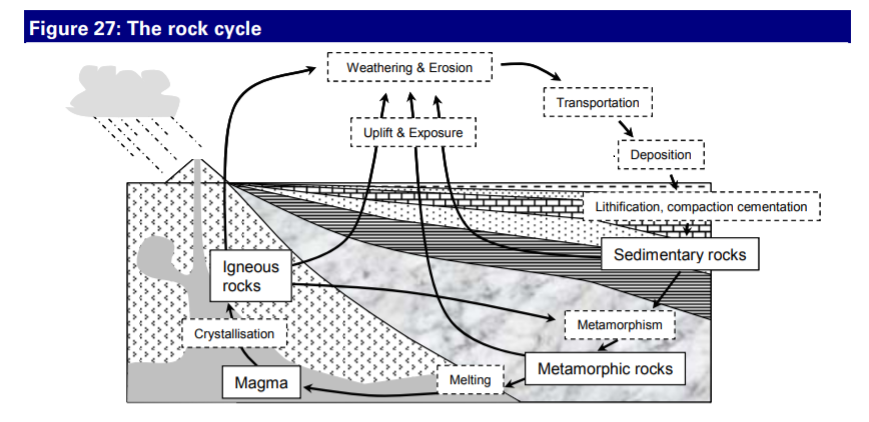
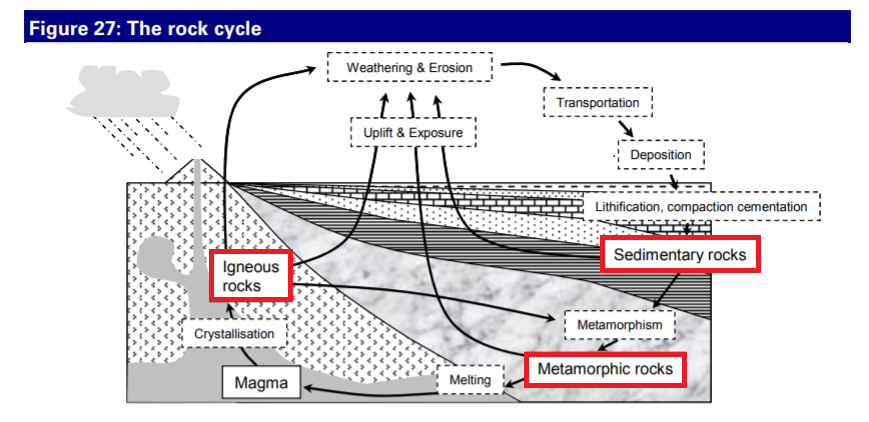
Done methodology except architecture of inception

Changed region(s): [[0.6835, 0.5545, 0.901, 0.6469], [0.5903, 0.8318, 0.8078, 0.9242], [0.2175, 0.5853, 0.3418, 0.7393]]

diff --git a/chapters/02-background.tex b/chapters/02-background.tex
@@ -5,7 +5,7 @@ In this chapter we provide a brief discussion of the essential background needed
 
 
 \section{Geology}
-The search for hydrocarbons - oil and gas - is concentrated within the upper crust of the Earth which spreads from 0 to 40km. It's made of 12 tectonic plates that drifts away from each other. As they move, the plates interact at their extremities: creating and destroying material. Through this process, minerals go through different phases (liquid, solid) and are combined with a range of other minerals creating different rock types: it is the rock cycle. 
+The search for hydrocarbons - oil and gas - is concentrated within the upper crust of the Earth which spreads from 0 to 40km. It's made of 12 tectonic plates that drifts away from each other. As they move, the plates interact at their extremities: creating and destroying material. During this process, minerals go through different phases (liquid, solid) and are combined with a range of other minerals creating different rock types: it is the rock cycle. 
 	\begin{figure}[!htp]
     \centering
         \includegraphics[width=0.9\textwidth]{./figures/02-rock-cycle}
@@ -15,9 +15,9 @@ The search for hydrocarbons - oil and gas - is concentrated within the upper cru
 Those cycles form hydrocarbon source rocks, reservoir and seals. The movement of the plates also introduces non-linearity in the rocks where oil or gas can be trapped. Those structural traps are where we usually drill from. As we see in red on Figure~\ref{fig:rock-cycle}, there are three types of rocks: igneous, sedimentary and metamorphic.  Igneous rocks are formed through the cooling of minerals from magma. Metamorphic rocks are generated through the burial process of rocks: as rocks are buried, they are exposed to higher temperature and pressure transforming organic matter into oil and gas. Sedimentary rocks accounts for almost all oil and gas reserve. They are deposited in layers, reflecting the history of the depositional basin.
 
 
-The hydrocarbon formation process has several steps: first the maturation where organic matter is buried and exposed to such temperature and pressure conditions that it converts into oil or gas. The second part of the process is called migration, it is when the hydrocarbon moves from the source rocks to the reservoir. At high temperature the oil has a lower density allowing it to moves upwards through fractures in the source rocks and the reservoir rocks. At even higher temperature, the oil is dissolved into gas phase. Then when it moves upwards, the pressure decreases causing it to condensate back to liquid form. The hydrocarbon is then trapped in the reservoir rock. The trap in which it lays should ideally be impermeable (no fluid can flow through it) but an escape rate smaller than the production rate is sufficient for the trap to be commercially viable. 
+The hydrocarbon formation process has several steps: first the maturation where organic matter is buried and exposed to such temperature and pressure conditions that it converts into oil or gas. The second part of the process is called migration, it is when the hydrocarbon moves from the source rocks to the reservoir. At high temperature the oil has a lower density allowing it to move upwards through fractures in the source rocks and the reservoir rocks. At even higher temperature, the oil is dissolved into gas phase. Then when it moves upwards, the pressure decreases causing it to condensate back to liquid form. The hydrocarbon is then trapped in the reservoir rock. The trap in which it lays should ideally be impermeable (no fluid can flow through it) but an escape rate smaller than the production rate is sufficient for the trap to be commercially viable. 
 
-Only a portion of this volume of hydrocarbon can be extracted. The amount depends on several factors such as porosity, permeability, lithology, components...  The following sections present some of those properties. 
+Only a portion of this volume of hydrocarbon can be extracted. The amount depends on several factors such as porosity, permeability, lithology...  The following sections present some of those properties. 
 \subsection{Dunham Classification}
 The Duhnam classification was developed to classify carbonate sedimentary rocks. The class names are based on the depositional texture. This means that the classification is most significant for interpreting the depositional environment of the rocks. The Dunham classification, see Figure~\ref{fig:dunham}, is based on three criteria: The supporting fabric of the original sediment: mud, grain ?, The presence or absence of mud. Were the original components bound during deposition ?
 Those criteria lead to 4 classes :
@@ -32,8 +32,7 @@ Those criteria lead to 4 classes :
         \caption{Dunham Classifiaction of carbonate rocks}\label{fig:dunham}
     \end{figure}
 \end{itemize}
-
-Maybe add one or two sentences about why duhnam classification is interesting ?
+This is a relevant property for reservoir rocks because it indicates what kindo of rock it is: if it is going to be soft or hard to drill through...
 
 \subsection{Porosity and permeability}
 The porosity of a rock is a measure of its ability to hold fluids. This is a relevant property for reservoir rocks since it will tell how much oil they can contain. Mathematically,  we calculate the porosity by dividing the volume of open spaces in the rock by the total volume of the rock. Porosity is expressed by a number between 0 and 1. If the porosity is 0, then the rock can't hold any fluid. 
@@ -45,24 +44,23 @@ There are two kinds of porosity:
 \end{itemize}
 
 The permeability of a rock describes how easily liquid can flow through it. It is an important property for the source rocks since hydrocarbon flows through them during the migration process. But it is also important for reservoir rock since if there is low permeability, the oil contained in the pores won't be able to flow out of the rock. 
-Rocks that are considered good reservoirs combine good porosity and permeability. A rock with high porosity and high permeability will make a good reservoir rock since it can hold and deliver large amounts of oil. 
+Rocks that are considered good reservoirs combine good porosity and permeability. Typically, rock with high porosity and high permeability will make a good reservoir rock since it can hold and deliver large amounts of oil. 
 
-I voluntarily chose to ignore DR and Components since I am not allowed to talk about which components are present in my rocks. But maybe I'll be allowed to talk about description of which can be found and what they could indicate without telling how much of each I find every time. 
 
-\subsection{Coring}
-The first step to determine where to drill is the seismic study. A big 'bang' sends wave sounds that propagates into the earth and are partially reflected by the different rock layers. Those wave sounds are gathered registered and stored by geophones placed on the surface. This operation is repeated several times in different places and the data gathered then creates a seismic images that can be interpreted by geologists to identify and target zones with high chances of finding oil. 
+\subsection{Coring}\label{sec:coring}
+The first step to determine where to drill is the seismic study. A big 'bang' sends wave sounds that propagates into the earth crust and are partially reflected by the different rock layers. Those wave sounds are gathered registered and stored by geophones placed on the surface. This operation is repeated several times in different places and the data gathered creates a seismic images that can be interpreted by geologists to identify and target zones with high chances of finding oil. 
 
-Then, a whole is drilled and a sensor is lowered to the bottom of the well and measures are taken. Several instruments are used such as gamma ray that gives information about the level of clay, resistivity which indicates potential hydrocarbon sources or sonic which indicates porosity of the rock. But the best way to identify what kind of rocks are drilled through is coring. This operation consists in drilling very slowly with a special drilling bit and extract a piece of the rock which looks like a tube. Then a resine is infiltrated through the core to make sure it holds and all the fragments stick together when we cut through it. 
+Then, a whole is drilled and a sensor is lowered to the bottom of the well and measures are taken. Several instruments are used such as gamma ray that gives information about the level of clay, resistivity which indicates potential hydrocarbon sources or sonic which indicates porosity of the rock. But the best way to identify what kind of rocks are drilled through is coring. This operation consists in drilling very slowly with a special drilling bit and extract a piece of the rock which looks like a tube. Then a resine is infiltrated through the core to make sure it holds and all the fragments stick together when we cut through it. Then we cut very thin sections out of the core, take high resolution pictures, and geologist label them. The result is a precise description of the rock the exploration is drilling through.  
 This technique is costly since it takes days out of the normal drilling process and it can be very slow. It is also not 100\% reliable: there can be gaps in the core, it can collapse or sometimes not manage to extract the core at all. 
-If the operation is successful, high resolution pictures of the core are taken. Then thin sections are cut from it and labelled by geologists. The outcome is a precise description of the rock the exploration is drilling through.  
+
 
 \section{Convolutional Neural Networks}
-Add one sentence about the fact that CNNs are what is almost unanimously claimed tobe the best way of doing computer vision and image classification.
-A Convolutional Neural Network (CNN) is a network that makes the explicit assumption that its inputs are images. Thus, one can encode some properties into the architecture of the network. One of them is that nearby pixels are more correlated than distant pixels. This allows the network to extract local features dependant only on small sub-regions of the image, resulting in a vastly reduced number of parameters. 
+In the last couple of years, most of the best peroforming networks in image classification have been CNNs. 
+A Convolutional Neural Network (CNN) is a network that makes the explicit assumption that its inputs are ordered. A rule of thumb is, if shuffling the input does not influence the results of the network, we should not use CNNs on this data. For images, the ordered aspect of the data implies that one can encode some properties into the architecture of the network. One of them is that nearby pixels are more correlated than distant pixels. This allows the network to extract local features dependant only on small sub-regions of the image, resulting in a vastly reduced number of parameters. 
 A CNN consists of three basic layers.  In the first layer, several linear operations are performed in parallel producing a set of linear activation: it's the convolution layer. The second layer is the activation layer: the activation function is applied to the linear activation. This will produce a feature map representing the local features that were detected in the previous stage. The third layer is the pooling layer, this reduces the number of parameters to increase efficiency and produces a feature map. Finally, one can add a last layer: the fully connected layer, it will use the extracted features to classify the images into classes. 
 
 \subsection{Convolution Layer}
-This one might be a bit too complex...
+
 The convolution is performed on the input data by a filter or kernel to produce a feature map. We proceed to the convolution by sliding the filter over the input. The first convolution will be between the first filter and the top right part of the image: a matrix multiplication is performed and the sum is written on the feature map. Each filter is trained to identify a certain feature and it will detect it everywhere on the image.  Numerous convolutions are performed using different kernels and producing several feature map.
 	
 	Now an example of how the feature maps are calculated. On Figure~\ref{fig:conv_layer}, the blue 3x3 matrix is the filter and the matrix on the left is the input. To get the 4 that is highlighted with green, we do a matrix multiplication followed by a sum so : 1x1 + 0x0 + 0x1 + 1x0 + 1x1 + 0x0 +1x1 + 1x0 + 1x1 = 4. 

diff --git a/chapters/04-results.tex b/chapters/04-results.tex
@@ -3,26 +3,26 @@
 In this chapter, we present the results of different networks. Every section from \ref{sec:res} to \ref{sec:gogl} presents the results for each network. every section is divided in three subsection: one in which we discuss the results of different initialization one where we discuss the results of different optimizers and one in which the results for different classes are presented. 
 \section{Resnet}\label{sec:res}
 \subsection{Initialization}
-For every class, we tested our network with either random initialization or with using pretrained weights. In Table \ref{tab:resinit}, we can see the best accuracy on validation and test set, the number of epochs for training for each class.  
+For every class, we tested our network with either random initialization or with using pretrained weights. In Table \ref{tab:resinit}, we can see the best accuracy on validation set and the number of epochs for training for each class.  
 
 \begin{table}
 \caption{\label{tab:resinit} The results of training ResNet18 using random initialization or pretrained weights with Adamax as optimizer}
 \centering
 \begin{tabular}[b]{| l | l | l | l | l |}
 \hline
-    Initialization & Class & Validation accuracy & Test accuracy & Epochs\ \\ \hline
-    \multirow{}{}{Pretrained Weights} & Dunham &  62\% & 34\% & 50 \\ 
-    & Porosity & 75\% & 45\% &  50 \\
-    &DRT & 75\% & 45\% &  50 \\
-    &Components & 75\% & 45\% &  50 \\ \hline
-     \multirow{}{}{Random} & Dunham &  62\% & 34\% & 50 \\
-    & Porosity & 75\% & 45\% &  50 \\
-    &DRT & 75\% & 45\% &  50 \\
-    &Components & 75\% & 45\% &  50 \\ \hline
+    Initialization & Class & Validation accuracy (F1-score) & Epochs\ \\ \hline
+    \multirow{}{}{Pretrained Weights} & Dunham &  62\%  & 50 \\ 
+    & Porosity & 74\%  &  60 \\
+    &DRT & 55\% &  50 \\
+    &Components & 70\% &  50 \\ \hline
+     \multirow{}{}{Random} & Dunham &  45\%  & 50 \\
+    & Porosity & 64\% &  50 \\
+    &DRT & 28\% & 50 \\
+    &Components & 34\% &  50 \\ \hline
     
 \end{tabular} 
 \end{table}
-On Figure\ref{fig:}, we plotted the accuracy, F1 score, and average training and validation loss for each class. 
+On Figure\ref{fig:plotsres}, we plotted the accuracy, F1 score, and average training and validation loss for each class. 
 
 
 
@@ -47,22 +47,187 @@ On Figure\ref{fig:}, we plotted the accuracy, F1 score, and average training and
 \end{subfigure}%
 \begin{subfigure}{.5\textwidth}
   \centering
-  \includegraphics[width=.8\linewidth]{figures/04-Init_dunham_acc.PNG}
+  \includegraphics[width=.8\linewidth]{figures/04-Init_components_acc.PNG}
   \caption{Resnet18 trained on the Components class.}
   \label{fig:resinit_compo}
 \end{subfigure}
-\caption{The lines in green and red are for pretrained weights and yellow and blue for random initialization. The top plot is the validation accuracy and the bottom plot is training  and validation loss.}
-\label{fig:fig}
+\caption{The lines in green and red are for pretrained weights and yellow and blue for random initialization. The top plot is the validation accuracy for plots (a) (b) and (c) and the F1-score for plot (d), and the bottom plot is training  and validation loss.}
+\label{fig:plotsres}
+\end{figure}
+\subsection{Classification}
+On Table\ref{tab:resbest}, we summarize the best validation and test accuracy or F-1 score for every class. Then we present the confusion matrix for the best performing model and the test data set for the single label classification on Figure\ref{fig:rescm}. For the Components class, we show the statistics for every class. 
+
+\begin{table}
+\caption{\label{tab:resbest} The results of the best version of the Resnet 18 on the classification task. The validation and test accuracy are used as first metrics on the single label classification while F1-scores are used for multi-label classification.}
+\centering
+\begin{tabular}[b]{| l | l | l | l | l |}
+\hline
+    Initialization & Class & Validation accuracy (F1-score) & Test accuracy (F1-score) \ \\ \hline
+    Pretrained Weights & Dunham &  62\%  & 38\% \\ \hline
+    Pretrained Weights & Porosity & 74\%  &  58\% \\ \hline
+    Pretrained Weights &DRT & 56\% &  25\% \\ \hline
+    Pretrained Weights &Components & 69\% &  45\% \\ \hline
+\end{tabular} 
+\end{table}
+
+\begin{figure}
+\begin{subfigure}{.5\textwidth}
+  \centering
+  \includegraphics[width=.8\linewidth]{figures/04-baby_best.PNG}
+  \caption{Best for Porosity}
+  \label{fig:rescm_poro}
+\end{subfigure}%
+\begin{subfigure}{.5\textwidth}
+  \centering
+  \includegraphics[width=.8\linewidth]{figures/04-baby_pred.PNG}
+  \caption{Predicted for Porosity}
+  \label{fig:rescmpred_poro}
+\end{subfigure}
+\begin{subfigure}{.5\textwidth}
+  \centering
+  \includegraphics[width=.8\linewidth]{figures/04-dunham_best.PNG}
+  \caption{Best for Dunham}
+  \label{fig:rescm_dunham}
+\end{subfigure}%
+\begin{subfigure}{.5\textwidth}
+  \centering
+  \includegraphics[width=.8\linewidth]{figures/04-dunham_pred.PNG}
+  \caption{Predicted for Dunham}
+  \label{fig:rescmpred_dunham}
+\end{subfigure}
+\begin{subfigure}{.5\textwidth}
+  \centering
+  \includegraphics[width=.8\linewidth]{figures/04-DRT_best.PNG}
+  \caption{Best for DRT}
+  \label{fig:rescm_drt}
+\end{subfigure}%
+\begin{subfigure}{.5\textwidth}
+  \centering
+  \includegraphics[width=.8\linewidth]{figures/04-drt_predicted.PNG}
+  \caption{Predicted for DRT}
+  \label{fig:rescmpred_drt}
+\end{subfigure}
+\caption{On the left is the confusion matrix of the best performing ResNet18 and on the right is the confusion matrix on the test set.}
+\label{fig:rescms}
 \end{figure}
 
-\subsection{Optimizer}
-\subsection{Classification}
-On Table\ref{tab:resbest}, we summarize the best accuracies for every class. Then on Figure
+
+%%%%%%%%%%%%%%%%%%%%%%%%%%%%%%%%%%%%%%%%%%%%%%%%%%%   ALEX   %%%%%%%%%%%%%%%%%%%%%%%%%%%%%%%%%%%%%%%%%%%%%%%%%%%%%
+
 \section{AlexNet}\label{sec:aleX}
 \subsection{Initialization}
-\subsection{Optimizer}
+For every class, we tested our network with either random initialization or with using pretrained weights. In Table \ref{tab:alexinit}, we can see the best accuracy on validation and test set, the number of epochs for training for each class.  
+On Figure\ref{fig:plotsalex}, we plotted the accuracy, F1 score, and average training and validation loss for each class. 
+\begin{table}
+\caption{\label{tab:alexinit} The results of training AlexNet using random initialization or pretrained weights with Adamax as optimizer}
+\centering
+\begin{tabular}[b]{| l | l | l | l | l |}
+\hline
+    Initialization & Class & Validation accuracy  & Epochs\ \\ \hline
+    \multirow{}{}{Pretrained Weights} & Dunham &  82\%  & 50 \\ %%cf Confusion Matrix 
+    & Porosity & 89\% &  50 \\
+    &DRT & 66\% &  50 \\
+    &Components & 75\% &  50 \\ \hline
+     \multirow{}{}{Random} & Dunham &  62\% & 50 \\
+    & Porosity & 65\% &  50 \\
+    &DRT & 61\% &  50 \\
+    &Components & 75\% & 50 \\ \hline
+\end{tabular} 
+\end{table}
+
+\begin{figure}
+\begin{subfigure}{.5\textwidth}
+  \centering
+  \includegraphics[width=.8\linewidth]{figures/04-Init_al_poro_acc.PNG}
+  \caption{AlexNet trained on the Porosity class.}
+  \label{fig:alexinit_poro}
+\end{subfigure}%
+\begin{subfigure}{.5\textwidth}
+  \centering
+  \includegraphics[width=.8\linewidth]{figures/04-Init_al_dunham_acc.PNG}
+  \caption{AlexNet trained on the Dunham class.}
+  \label{fig:alexinit_dunham}
+\end{subfigure}
+\begin{subfigure}{.5\textwidth}
+  \centering
+  \includegraphics[width=.8\linewidth]{figures/04-Init_al_drt_acc.PNG}
+  \caption{AlexNet trained on the DRT class.}
+  \label{fig:alexinit_drt}
+\end{subfigure}%
+\begin{subfigure}{.5\textwidth}
+  \centering
+  \includegraphics[width=.8\linewidth]{figures/04-Init_al_components_acc.PNG}
+  \caption{AlexNet trained on the Components class.}
+  \label{fig:alexinit_compo}
+\end{subfigure}
+\caption{The lines in green and red are for pretrained weights and yellow and blue for random initialization. The top plot is the validation accuracy for plots (a) (b) and (c) and the F1-score for plot (d), and the bottom plot is training  and validation loss.}
+\label{fig:plotsalex}
+\end{figure}
+
 \subsection{Classification}
+On Table\ref{tab:ralexbest}, we summarize the best validation and test accuracy or F-1 score for every class. Then we present the confusion matrix for the best performing model and the test data set for the single label classification on Figure\ref{fig:alexcm}. For the Components class, we show the statistics for every class. 
+
+\begin{table}
+\caption{\label{tab:alexbest} The results of the best version of the AlexNet on the classification task. The validation and test accuracy are used as first metrics on the single label classification while F1-scores are used for multi-label classification.}
+\centering
+\begin{tabular}[b]{| l | l | l | l | l |}
+\hline
+    Initialization & Class & Validation accuracy (F1-score) & Test accuracy (F1-score) \ \\ \hline
+    Pretrained Weights & Dunham &  82\%  & 39\% \\ \hline
+    Pretrained Weights & Porosity & 89\%  &  69\% \\ \hline
+    Pretrained Weights &DRT & 100\% &  100\% \\ \hline
+    Pretrained Weights &Components & 100\% &  100\% \\ \hline
+\end{tabular} 
+\end{table}
+
+\begin{figure}
+\begin{subfigure}{.5\textwidth}
+  \centering
+  \includegraphics[width=.8\linewidth]{figures/04-al_baby_best.PNG}
+  \caption{Best for Porosity}
+  \label{fig:rescm_poro}
+\end{subfigure}%
+\begin{subfigure}{.5\textwidth}
+  \centering
+  \includegraphics[width=.8\linewidth]{figures/04-al_baby_pred.PNG}
+  \caption{Predicted for Porosity}
+  \label{fig:rescmpred_poro}
+\end{subfigure}
+\begin{subfigure}{.5\textwidth}
+  \centering
+  \includegraphics[width=.8\linewidth]{figures/04-al_dunham_best.PNG}
+  \caption{Best for Dunham}
+  \label{fig:rescm_dunham}
+\end{subfigure}%
+\begin{subfigure}{.5\textwidth}
+  \centering
+  \includegraphics[width=.8\linewidth]{figures/04-al_dunham_predicted.PNG}
+  \caption{Predicted for Dunham}
+  \label{fig:rescmpred_dunham}
+\end{subfigure}
+\begin{subfigure}{.5\textwidth}
+  \centering
+  \includegraphics[width=.8\linewidth]{figures/04-al_DRT_best.PNG}
+  \caption{Best for DRT}
+  \label{fig:rescm_drt}
+\end{subfigure}%
+\begin{subfigure}{.5\textwidth}
+  \centering
+  \includegraphics[width=.8\linewidth]{figures/04-al_drt_predicted.PNG}
+  \caption{Predicted for DRT}
+  \label{fig:rescmpred_drt}
+\end{subfigure}
+\caption{On the left is the confusion matrix of the best performing AlexNet and on the right is the confusion matrix on the test set.}
+\label{fig:rescms}
+\end{figure}
+
+
+%%%%%%%%%%%%%%%%%%%%%%%%%%%%%%%%%%%%%%%%%%%%%%%%%%%   ALEX   %%%%%%%%%%%%%%%%%%%%%%%%%%%%%%%%%%%%%%%%%%%%%%%%%%%%%
+
+
 \section{GoogleNet}\label{sec:gogl}
 \subsection{Initialization}
-\subsection{Optimizer}
+
 \subsection{Classification}
+
+\section{Optimizer}

diff --git a/chapters/01-introduction.tex b/chapters/01-introduction.tex
@@ -1,13 +1,20 @@
 \chapter{Introduction}
 \label{chp:introduction} 
+In this chapter we explain the motivation for this thesis and state our goals and research questions. Further, we  proceed to explain how we plan to answer our research question by introducing our research methods.   
 \section{Motivation}
-In spite of the shift to renewable energies, the search for oil and gas remains strong as ever.  Oil money dirves reseaech for more oil lots lots of money
+In spite of the shift towards renewable energies, the search for oil and gas remains strong as ever. To remain competitive with the low oil price, operators need to find new ways to optimize their services. 
+With increasing amount data,  more and more companies are embracing Machine Learning for their day to day operations. And the results are encouraging. 
+From drilling to stock prices, we research  new tools to help automating some of the process. 
+Still, geologists and other experts remain reluctant to trust these 'black box algorithms'. This is why we need to thrive to achieve better results and convince them that Machine Learning can assist them in their daily work.
 
-. 
-\section{Objective}
-The aim of this thesis is to produce an image recognition algorithm that is able to differentiate between different levels of porosity, different dunham classification, different components and different depositional rock types using picture of thin sections of core rocks. The purpose is to help geologists in labeling carbonate rocks since it can be a time consuming and laborious task. 
+Last year, several newspapers stated that (link 2 or 3 artciles) 'data is now more valuable than oil'. This highlights the need for the oil industry to become more digital and find ways to draw value from this data. A good example of how data can help is in petroleum exploration. Dozens of different data sources are exploited such as seismic data, data from various tools and sensors while drilling, pictures of rocks, etc... If  we could analyze all this data better, we would be able to recover more oil from the fields we are already exploiting, and discover even bigger ones. The use of deep learning in petroleum studies is still shy, but the possibilities are countless.
 
-This algorithm is built with the help of convolutional neural networks. We feed the networks with labeled images of thin sections and it learns to identify the different elements stated earlier. We consider that we reached the aim when we produce an algorithm capable of efficiently predict the amount of porosity, dunham classification, depositional rock type and correct components in a new images we feed it. 
+\url{https://www.forbes.com/sites/bernardmarr/2018/03/05/heres-why-data-is-not-the-new-oil/#5409375a3aa9} name of the guy ho said oil is more valuable. 
+
+
+The goal of this thesis is to produce an image recognition algorithm that is able to differentiate between different levels of porosity,  Dunham classification, components and depositional rock types using picture of thin sections of core rocks. The purpose is to help geologists in labeling carbonate rocks since it can be a time consuming, laborious and rather expensive task. 
+
+This algorithm is built with the help of convolutional neural networks. We feed the networks with labeled images of thin sections and it learns to identify the different elements stated earlier. We consider that we reached the aim when we produce an algorithm capable of efficiently predict the amount of porosity, Dunham classification, depositional rock type and correct components in a new images we feed it. 
 
 \section{Research Questions}
 To reach this goal, we define several more specific research questions: 
@@ -16,14 +23,17 @@ To reach this goal, we define several more specific research questions:
     \item Which network performs best ?
     \item How does initialization and research parameters influence the performance of the network ?
 \end{itemize}
+
+\section{Disclaimer}
+This thesis has been conducted in a company. The input data itself is confidential. This is why it has been anonymized. We refer to the different components with letters and depositional rock types with codes. Apart from that, the results are fully published here.  
 \section{Research Methods}\label{sec:research-method}
 To reach the goal and address the research questions, we divide our research into two parts. First, we conduct a literary review to understand the labels we are trying to identify and the theory behind convolutional neural networks and their different optimization. The second part will follow a design science research methodology where we will test different networks and optimization techniques. Methodology will be discussed further in Chapter \ref{chp:methodology}.
 \section{Thesis Outline}
 
-In the first Chapter \ref{chp:introduction}, we introduced the motivations for this thesis. It contains arguments for how an image classification algorithm could facilitate the job of geologist and allow them to focus on tasks that needs more expertise. Further the aim of the thesis and the related research questions were presented. 
+In the first Chapter \ref{chp:introduction}, we introduced the motivations for this thesis. It contains arguments for how an image classification algorithm could facilitate the job of geologist and allow them to focus on tasks that need more expertise. Further the aim of the thesis and the related research questions were presented. 
 
 
-The second Chapter \ref{chp:background}, contains the theory needed to understand the data given and how the labels are associated to the quality of the reservoir rocks, and the theory needed to build an image recognition algorithm based on CNN. More specifically, it introduces the different layers and operations that they consist of, as well as optimization processes. Finally, the architecture and theory behind the state of the art network are explained.
+The second Chapter \ref{chp:background}, contains the theory needed to understand the data given and how the labels are associated to the quality of the reservoir rocks, and the theory needed to build an image recognition algorithm based on CNN. More specifically, it introduces the different layers and operations that they consist of, as well as optimization processes. Finally, the architecture and theory behind the state of the art network and the different techniques used to train them are explained.
  
 
 In Chapter \ref{chp:methodology}, we introduce the methods used in the image classification algorithm. In the first part, we discuss the label selection and the preprocessing, then we describes the data augmentation techniques. In a third section, we look into details into the architecture of each network and finally we present the different experiments that were conducted.  

diff --git a/chapters/03-methodology.tex b/chapters/03-methodology.tex
@@ -2,11 +2,11 @@
 In this chapter we explain the research methods used and rationalize their choice. Further, we present the pre processing and label selection, the detailed architecture of the networks and the different experiments that have been conducted. 
 \section{Data}
 
-As explained in section ref to coring, the data has been gathered through coring and labelled by geologist. Further on, we will consider the geologists labels as the ground truth. Further reflection on that will be discussed in the Discussion section. So we have gathered 1907 labeled images. 
+As explained in section\ref{sec:coring}, the data has been gathered through coring and labelled by geologist. Further on, we will consider the geologists labels as the ground truth. Further reflection on that will be discussed in the Discussion section. We have gathered 1907 labeled images. 
 \subsection{Label Selection}
- The labels of every images can be divided into different categories that we will refer to as classes, see Figure~\ref{fig:classes}. For example, the class Lithology contains 10 different labels, each representing one of the possible lithologies. One image can have labels for one or more classes, but some classes are under-represented. The classes Dominant Grain type, Diagenesis, Cutting description and Sorting have less than 1000 data points, this is not enough to produce good prediction on, that is why we chose not to use them.
+ The labels of every images can be divided into different classes, see Figure~\ref{fig:classes}. For example, the class Lithology contains 10 different labels, each representing one of the possible lithologies. Not all images have labels in every classes, that is why some classes are under-represented. The classes Dominant Grain type, Diagenesis, Cutting description and Sorting have less than 1000 data points, this is not enough to produce good prediction on, that is why we chose not to use them.
  
- For the classes that are sufficiently populated, we plot the distribution of the data points within those classes, on Figure~\ref{fig:litandstruc}, we can see the labels distribution for Lithology and Structures. The labels are extremely unbalanced, so trying to predict any other label than Lit1 for Lithology and Structure 1 or 2 for Structures would be very difficult. This is why we will not try to predict on those class. 
+ For the classes that are sufficiently populated, we plot the distribution of the data points within those classes, on Figure~\ref{fig:litandstruct}, we can see the labels distribution for Lithology and Structures. The labels are extremely unbalanced, so trying to predict any other label than Lit1 for Lithology and Structure 1 or 2 for Structures would be very difficult. This is why we will not try to predict on those class. 
  The remaining classes : Porosity, Components, Dunham and DRT, have a good distribution of points within the class. They also give a good overview of the rock properties. If we are able to predict correctly on them, we will have an idea of how good the reservoir rock is. 
 \begin{figure}
 \begin{subfigure}{.5\textwidth}
@@ -185,7 +185,7 @@ AxelNet is a smaller network, only 8 layers deep, so the lack of training data i
 \end{figure}
 
 \subsection{Hyper parameters}
-Hyper parameters are the parameters that are chosen before training, and that will remain the same during the whole training. One of the questions in this thesis is to study the influence of some hyper parameters on the speed and convergence of the algorithm, so some of them may vary from one experiment to an other. 
+Hyper parameters are the parameters that are chosen before training, and that will remain the same during the whole training. One of the questions in this thesis is to study the influence of some hyper parameters on the  convergence of the algorithm, so some of them may vary from one experiment to an other. 
 
 \subsubsection{Weights initialization}
 As mention in section (translearn), there are two ways of using the networks to perform a classification task. Either you train all the layers in the network and randomly initialize the weights. Or we use the weights that have achieved good results on known dataset and retrain only a smaller part of the network to make it specific to the task.
@@ -198,7 +198,8 @@ The batch sized is fixed to 700 so that two experiments can be run in parallel o
 
 \subsubsection{Optimizers}
 For Adamax, there is a set of default values for the hyper-parameters: \(\eta = 0.002\), \(\beta_1 = 0.9\) \(\beta_2 = 0.999\), \(\epsilon = 1e-8\) that we will keep across all experiments.
-For the SGD, we chose an initial value of learning rate of 0.001 and implemented a learning rate decay very 20 iterations, and a momentum of 0.9. '
+For the SGD, we chose an initial value of learning rate of 0.001 and implemented a learning rate decay very 20 iterations, and a momentum of 0.9. 
+Adamax is used to get a good convergence quickly (papers 2 at least), this is why we use Adamax in the first experiment on the weight initialization. This first experiment is going to give us insight on which network performs best on the different labels. Then in a second experiment, we will try to optimize further the best performing model to reach the best possible results using the SGD+momentum optimizer.  
 
 \subsubsection{Regularization}
-As we mentioned before, the small amount of data we have make over fitting likely. In order to avoid this problem, we add a layer of overfitting in Resnet with probability 0.4, with probability 0.5 in AlexNet and in GoogLeNet. ResNet already performs b<tch normalizarion between every convolutional layer, that is why we chose a slightly smaller value of dropout. 
+As we mentioned before, the small amount of data we have make over fitting likely. In order to avoid this problem, we add a layer of overfitting in Resnet with probability 0.4, with probability 0.5 in AlexNet and in GoogLeNet. ResNet already performs batch normalization between every convolutional layer, that is why we chose a slightly smaller value of dropout. 

diff --git a/chapters/06-discussion.tex b/chapters/06-discussion.tex
@@ -3,5 +3,7 @@
 \subsection{Initialization}
 \subsection{Optimizers}
 \section{Classification Task}
+We can see that Resnet is very good at predicted the class that is mostly populated when testing. Results are that Resnet is good but it is unfortunaltely very much overfiting. Even with a big dropout, we still have a lot of trouble adapting to doffferent class repartition. 
 \section{Performance}
-What does our accuracy tells us ? Is it better than geologists
+WNow that we presented and discussed the theoritical intrication of our results, we can take a step back and think about what those accuracy actually means. it is known that there is a lot of disagreement between geologist. So for a same picture for example, they would not all agree on the label. 
+Even to assess the porosity, two geolosgists might disagree on if it there is no porosity at all, r a small amouint. This explains why our model struggles to identify this case. But it gets even more difficult when we have to identify the depositional rock types. Since we have to identify both the matrix of the rock but also which components are there and in which quantity. Also some of the labeles in DRT are very similar to one another. This is why we get such poor results on this class. If geologists can't even agree in real life, then we can not expect our model to get a high accuracy. 
